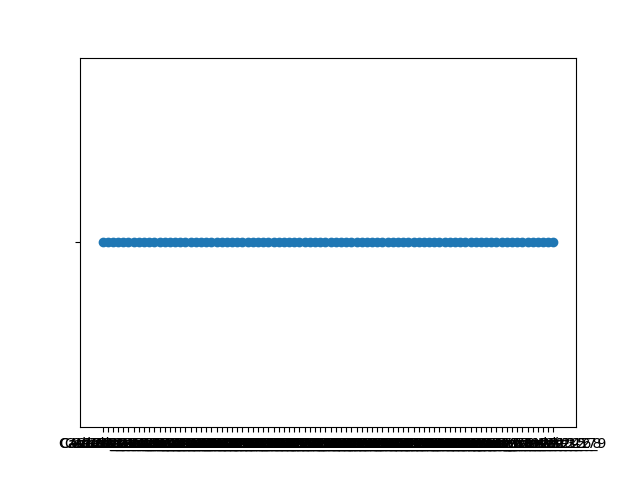
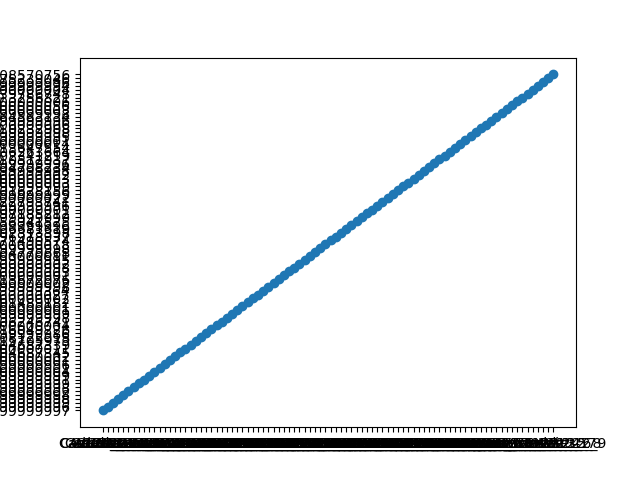
Added new plot for deltas.

Changed region(s): [[0.0, 0.125, 0.125, 0.875], [0.1562, 0.125, 0.875, 0.875]]

diff --git a/scripts/misc/make_dot_plot.py b/scripts/misc/make_dot_plot.py
@@ -19,8 +19,8 @@ x = []
 y = []
 for y_index in y_indeces[0:1]:
 	for line in lines:
-		x.append(line.split(' ')[x_index])
-		y.append(line.split(' ')[y_index])
+		x.append(line.split("\t")[x_index])
+		y.append(line.split("\t")[y_index])
 
 	plt.scatter(x, y)
 	x = []
